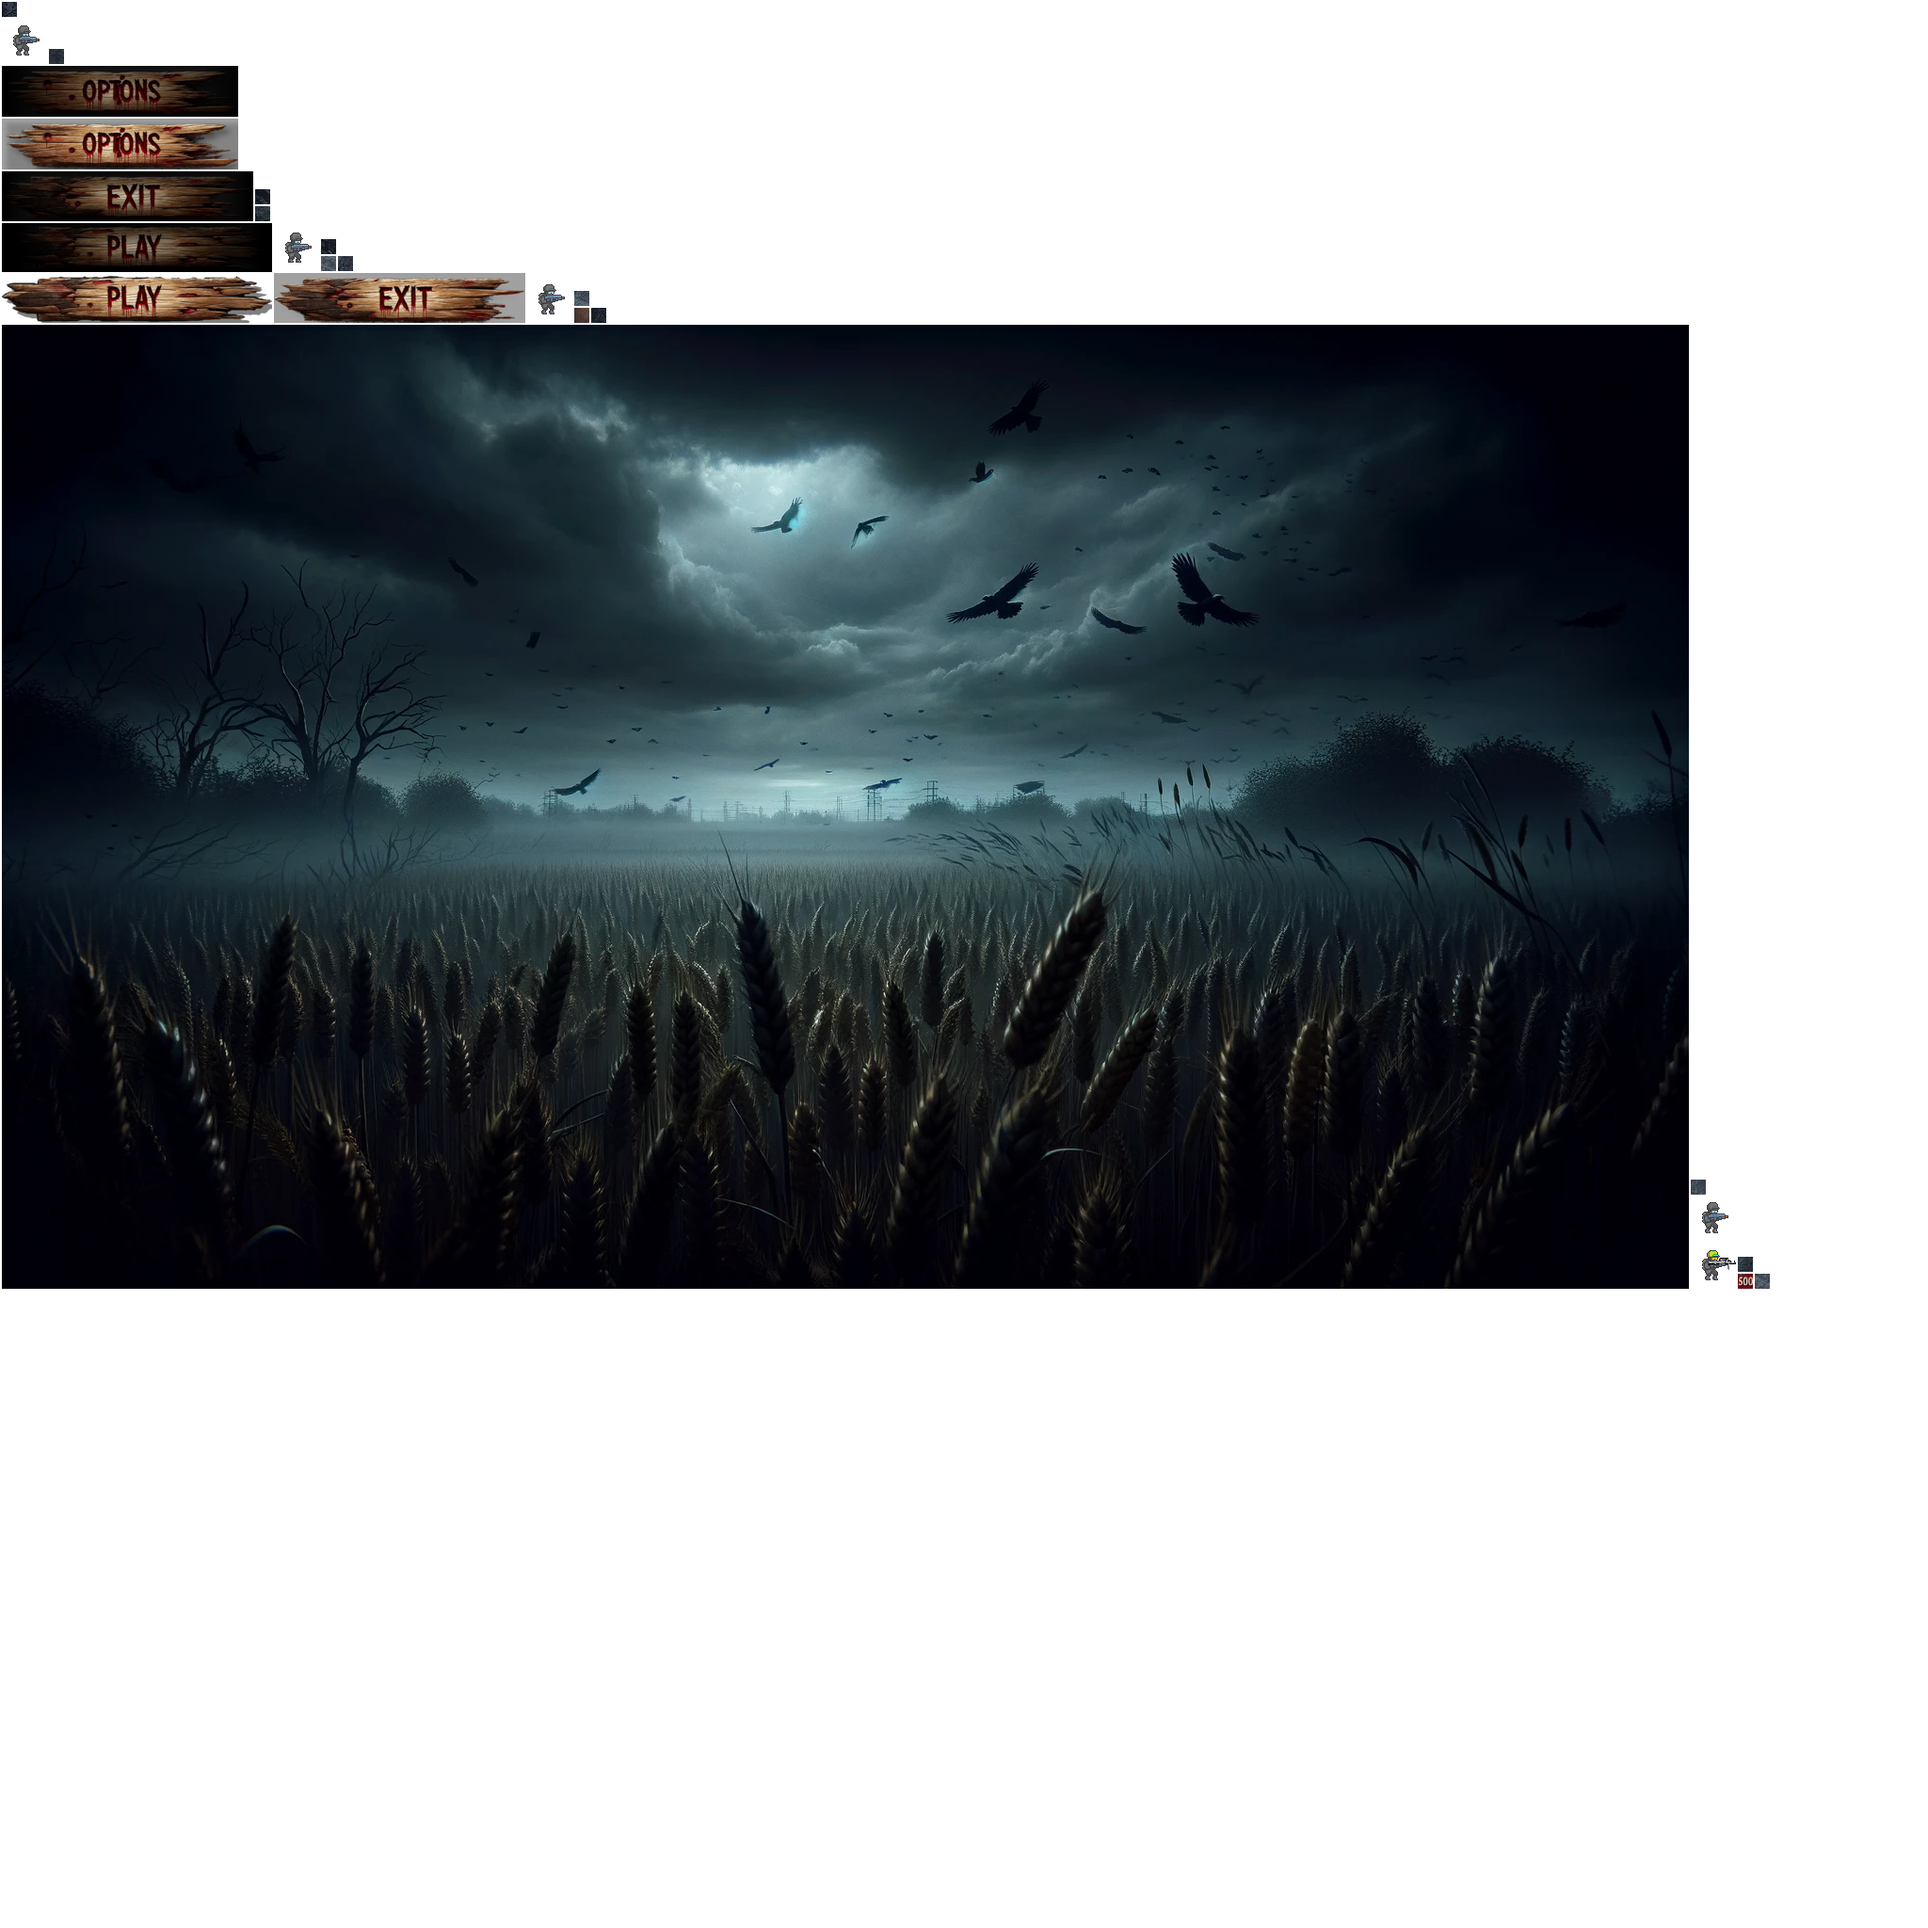
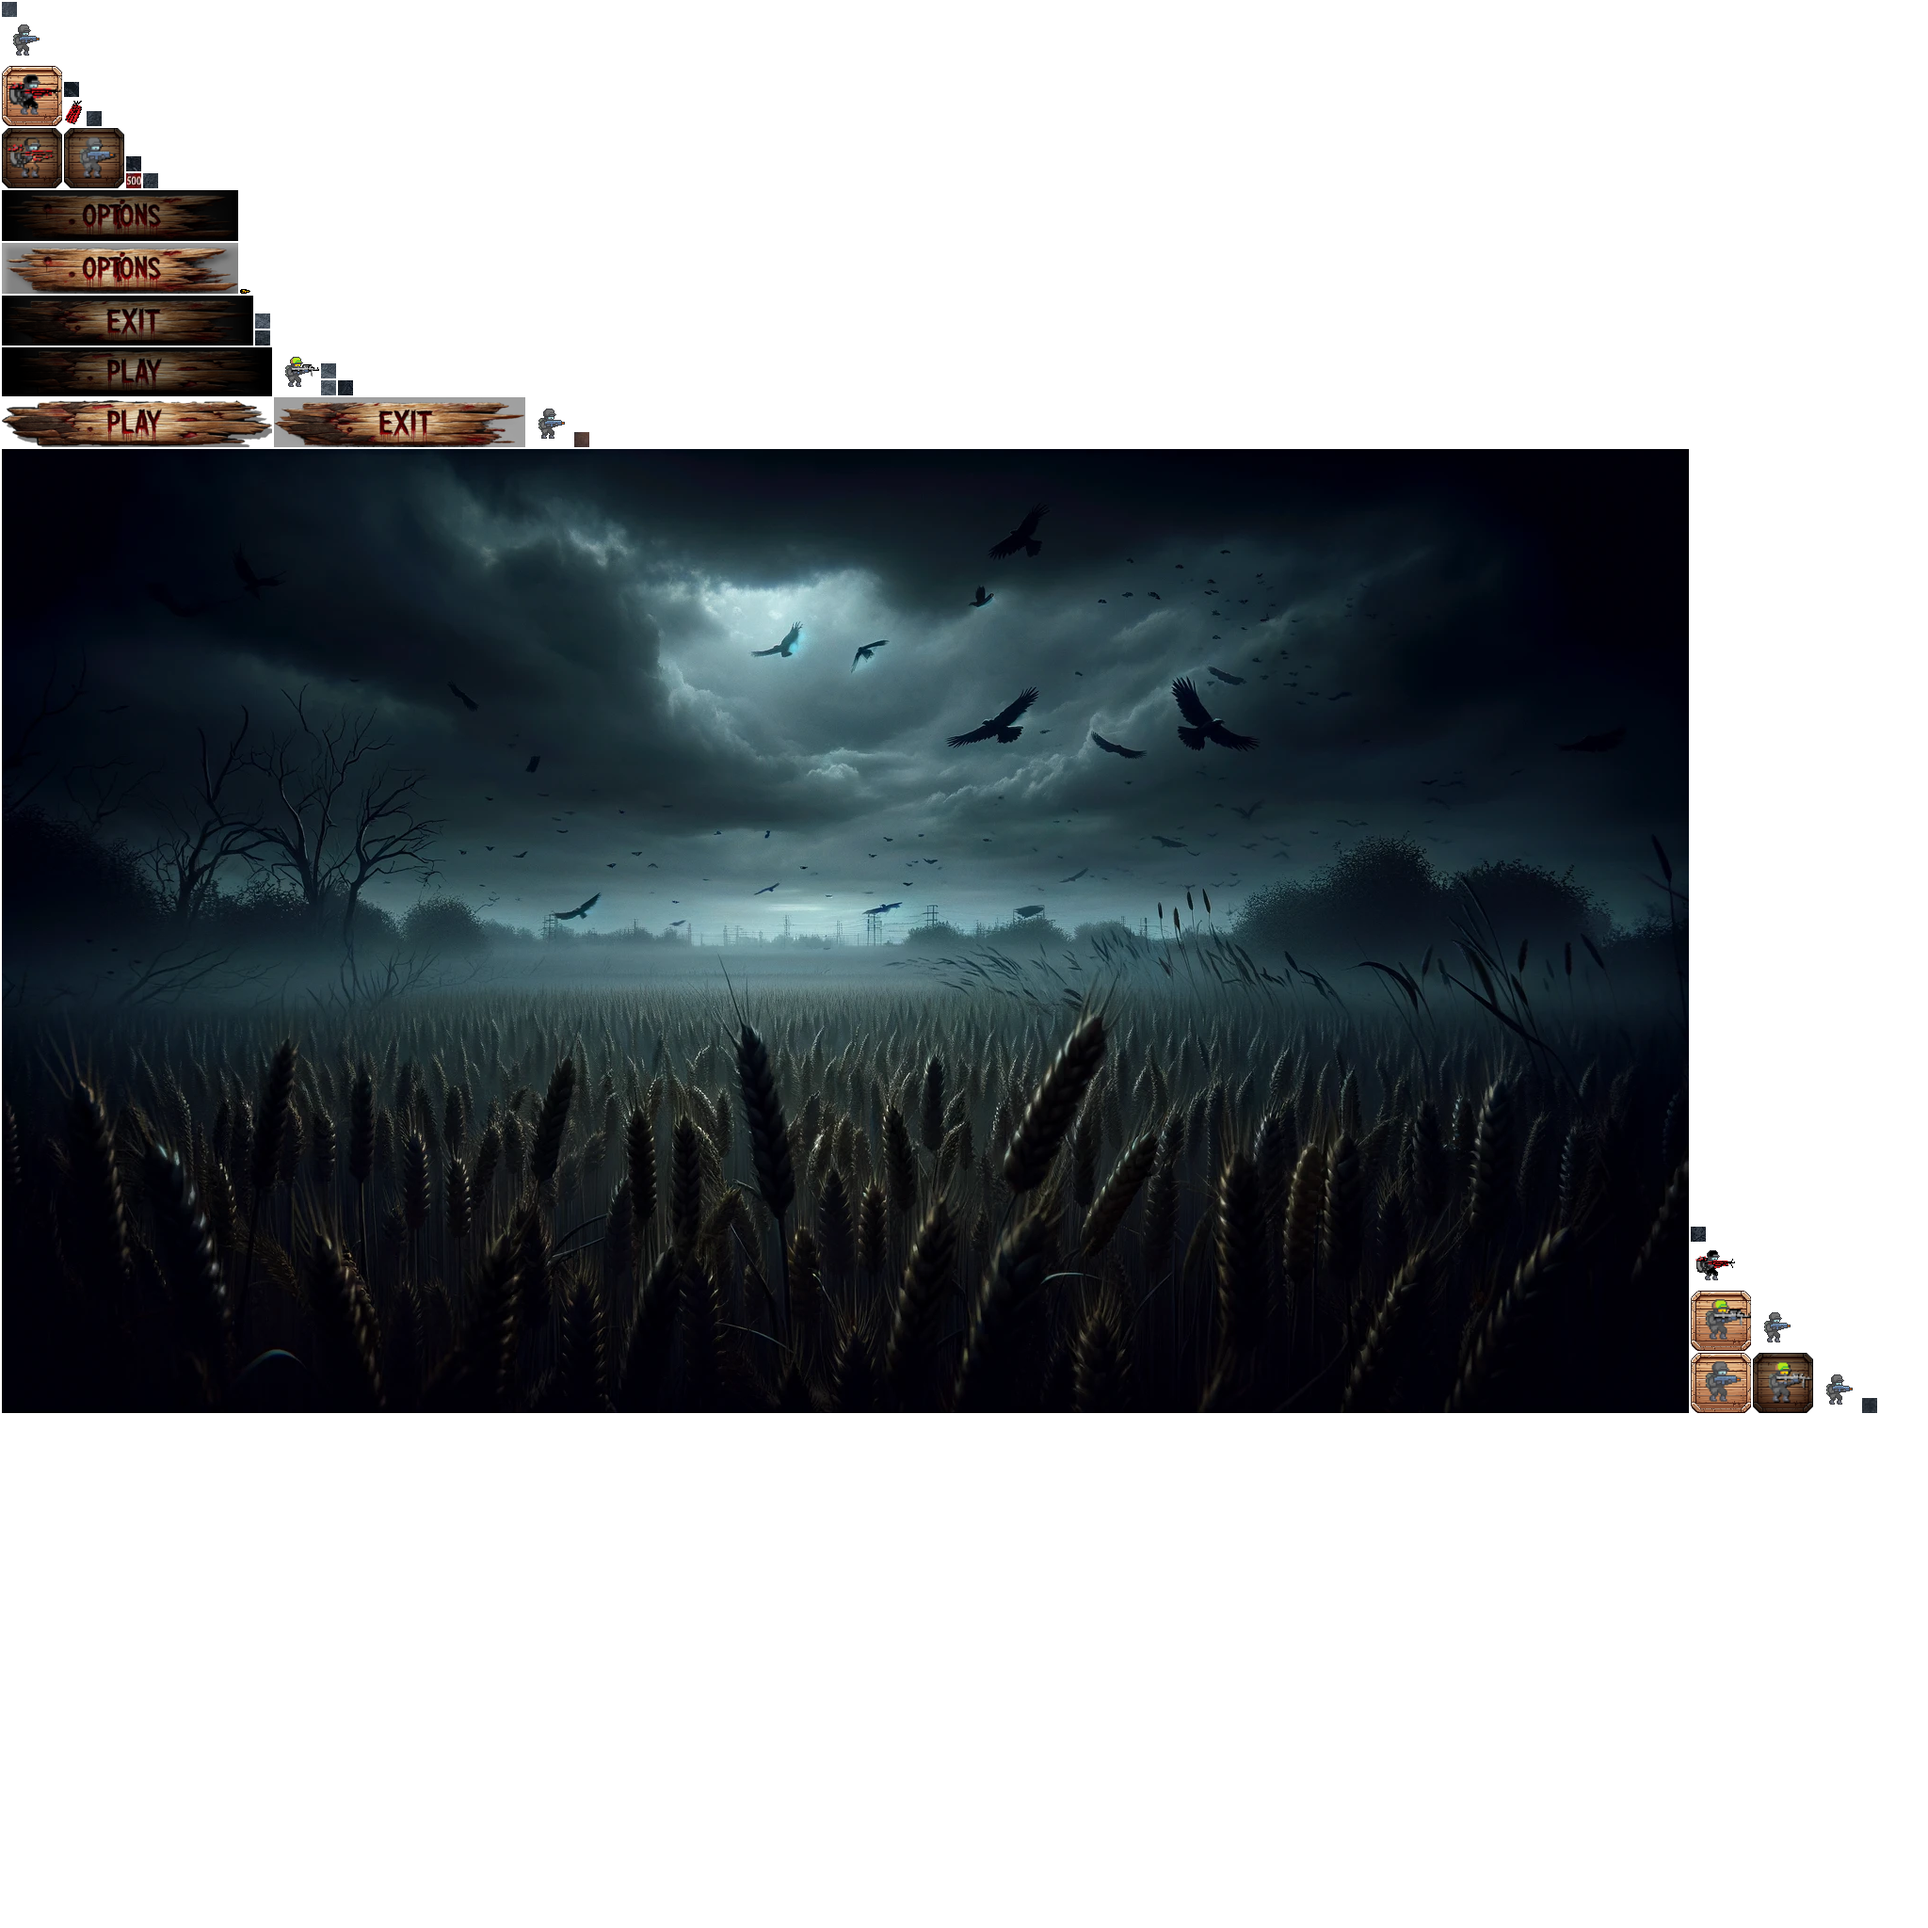
new textures, fully implemented tower building UI, more sfx, fixed fullscreen bug where UI buttons wouldnt register according to screen position.

Changed region(s): [[0.0, 0.0, 0.9688, 0.75], [0.0312, 0.4375, 0.0625, 0.4688]]

diff --git a/src/main/java/inf112/skeleton/app/scene/PlayScene.java b/src/main/java/inf112/skeleton/app/scene/PlayScene.java
@@ -19,6 +19,7 @@ import com.badlogic.gdx.scenes.scene2d.actions.SequenceAction;
 import com.badlogic.gdx.scenes.scene2d.ui.*;
 import com.badlogic.gdx.scenes.scene2d.utils.ChangeListener;
 import com.badlogic.gdx.utils.Align;
+import com.badlogic.gdx.utils.viewport.FitViewport;
 import com.badlogic.gdx.utils.viewport.ScreenViewport;
 import com.badlogic.gdx.utils.viewport.StretchViewport;
 import inf112.skeleton.app.controller.EnemyController;
@@ -41,8 +42,9 @@ public class PlayScene extends AbstractGameScene {
     private Stage stage;
     private Skin uimenuskin;
     private Button gunnerButton;
-    private SpriteBatch spriteBatch;
     private Button sniperButton;
+    private Button bomberButton;
+    private SpriteBatch spriteBatch;
     private Level level;
     private EnemyController enemyController;
     private TowerController towerController;
@@ -70,6 +72,8 @@ public class PlayScene extends AbstractGameScene {
         camera.setToOrtho(false, Gdx.graphics.getWidth(), Gdx.graphics.getHeight());
         camera.update();
         stage = new Stage(new ScreenViewport(camera), spriteBatch);
+
+
     }
 
     private void setupInput() {
@@ -116,10 +120,8 @@ public class PlayScene extends AbstractGameScene {
     }
 
     private void initializeGameControllers() {
-        //level = new Level(game);
         this.enemyController = EnemyController.getInstance(this.level);
         this.towerController = TowerController.getInstance(this.level);
-       // worldController = new WorldController(game, level, enemyController, towerController);
 
         InputMultiplexer inputMultiplexer = new InputMultiplexer(stage, new MouseController(towerController, enemyController, level));
         Gdx.input.setInputProcessor(inputMultiplexer);
@@ -130,7 +132,7 @@ public class PlayScene extends AbstractGameScene {
         layer.setFillParent(true);
         layer.bottom();
 
-        gunnerButton = new Button(uimenuskin, "tower");
+        gunnerButton = new Button(uimenuskin, "gunnertower");
         layer.add(gunnerButton).padBottom(10);  // Add padding at the bottom if needed
         gunnerButton.addListener(new ChangeListener() {
             @Override
@@ -140,13 +142,23 @@ public class PlayScene extends AbstractGameScene {
             }
         });
 
-        sniperButton = new Button(uimenuskin, "tower");
+        sniperButton = new Button(uimenuskin, "snipertower");
         layer.add(sniperButton).padBottom(10);  // Add padding at the bottom if needed
         sniperButton.addListener(new ChangeListener() {
             @Override
             public void changed(ChangeEvent event, Actor actor) {
                 System.out.println("sniper selected");
                 onTowerClicked(DefenderType.SNIPER);
+            }
+        });
+
+        bomberButton = new Button(uimenuskin, "bombertower");
+        layer.add(bomberButton).padBottom(10);  // Add padding at the bottom if needed
+        bomberButton.addListener(new ChangeListener() {
+            @Override
+            public void changed(ChangeEvent event, Actor actor) {
+                System.out.println("bomber selected");
+                onTowerClicked(DefenderType.BOMBER);
             }
         });
         layer.row();
@@ -225,6 +237,11 @@ public class PlayScene extends AbstractGameScene {
 
     @Override
     public void resize (int width, int height) {
+        if (stage != null) {
+            stage.getViewport().update(width, height, true);
+            camera.setToOrtho(false, SCREEN_WIDTH, SCREEN_HEIGHT);
+            camera.update();
+        }
     }
 
     @Override
@@ -237,11 +254,7 @@ public class PlayScene extends AbstractGameScene {
         }
 
         // temporary multiplexer to use both stage ui buttons and configurer mousecontroller bs so that i can place the towers. (temp temp temp!!!)
-
-
     }
-
-
     @Override
     public void hide () {
         MusicManager.stopCurrentMusic();

diff --git a/src/main/java/inf112/skeleton/app/util/GameAssets.java b/src/main/java/inf112/skeleton/app/util/GameAssets.java
@@ -15,6 +15,8 @@ public class GameAssets implements Disposable {
     public static TextureAtlas.AtlasRegion playButtonDown;
     public static TextureAtlas.AtlasRegion gunnerTexture;
     public static TextureAtlas.AtlasRegion sniperTexture;
+    public static TextureAtlas.AtlasRegion bomberTexture;
+    public static TextureAtlas.AtlasRegion bombTexture;
     public static TextureAtlas.AtlasRegion zombieTexture;
     public static TextureAtlas.AtlasRegion pathTexture;
     public static TextureAtlas.AtlasRegion groundTexture;
@@ -47,18 +49,20 @@ public class GameAssets implements Disposable {
         }
 
         // Load individual textures
-        playButtonUp = atlas.findRegion("play-up");
-        playButtonDown = atlas.findRegion("play-dn");
+        playButtonUp = atlas.findRegion("play_up");
+        playButtonDown = atlas.findRegion("play_dn");
         gunnerTexture = atlas.findRegion("gunna0");
         sniperTexture = atlas.findRegion("snipa0");
+        bomberTexture = atlas.findRegion("bomba0");
         zombieTexture = atlas.findRegion("gunna0");
         pathTexture = atlas.findRegion("path");
+        bombTexture = atlas.findRegion("bomb");
         groundTexture = atlas.findRegion("gritty2");
 
         // sprite form
         gunnerSprite = createSprite(gunnerTexture);
-        sniperSprite = createSprite(gunnerTexture);
-        bomberSprite = createSprite(gunnerTexture);
+        sniperSprite = createSprite(sniperTexture);
+        bomberSprite = createSprite(bomberTexture);
 
         zombieSprite = createSprite(zombieTexture);//FIX Change atlas to zombie texture, when available :)
         zombieslowedSprite = createSprite(zombieTexture);//FIX Change to frozen zombie when available
@@ -66,9 +70,9 @@ public class GameAssets implements Disposable {
         tankSprite = createSprite(zombieTexture);
         tankslowedSprite = createSprite(zombieTexture);
 
-        gunnerBulletSprite = createSprite(atlas.findRegion("path"));
-        sniperBulletSprite = createSprite(atlas.findRegion("path"));
-        bomberBulletSprite = createSprite(atlas.findRegion("path"));
+        gunnerBulletSprite = createSprite(atlas.findRegion("bullet"));
+        sniperBulletSprite = createSprite(atlas.findRegion("bullet"));
+        bomberBulletSprite = createSprite(atlas.findRegion("bomb"));
 
         if (playButtonUp == null || playButtonDown == null || gunnerTexture == null || zombieTexture == null || pathTexture == null) {
             Gdx.app.error("GameAssets", "One or more texture regions not found!");

diff --git a/src/main/java/inf112/skeleton/app/util/MusicManager.java b/src/main/java/inf112/skeleton/app/util/MusicManager.java
@@ -5,15 +5,18 @@ import com.badlogic.gdx.audio.Music;
 import com.badlogic.gdx.audio.Sound;
 
 public class MusicManager {
+
     private static Music currentMusic;
     private static String currentTrack = "";
 
     // SFX
     // Shooting sfx
-    private static Sound sniperShotSound = Gdx.audio.newSound(Gdx.files.internal("sniper_shot.ogg"));
-    private static Sound gunnerShotSound = Gdx.audio.newSound(Gdx.files.internal("gunner_shot.ogg"));
+    private static final Sound sniperShotSound = Gdx.audio.newSound(Gdx.files.internal("sniper_shot.ogg"));
+    private static final Sound gunnerShotSound = Gdx.audio.newSound(Gdx.files.internal("gunner_shot.ogg"));
+    private static final Sound bomberShotSound = Gdx.audio.newSound(Gdx.files.internal("bombashoot.ogg"));
+    private static final Sound bombExplodeSound = Gdx.audio.newSound(Gdx.files.internal("bombexplode.ogg"));
     // Enemy sfx
-    private static Sound zombieDeathScream = Gdx.audio.newSound(Gdx.files.internal("zombie_death.ogg"));
+    private static final Sound zombieDeathScream = Gdx.audio.newSound(Gdx.files.internal("zombie_death.ogg"));
 
 
     public static void play(String filename, boolean loop) {
@@ -39,7 +42,7 @@ public class MusicManager {
 
     }
 
-    public static void changeVolume(){
+    public static void changeMusicVolume(){
         if(currentMusic!=null) {
             currentMusic.setVolume(GameSettings.getVolMusic());
         }
@@ -57,11 +60,16 @@ public class MusicManager {
     public static void playGunnerShot() {
         gunnerShotSound.play();
     }
+    public static void playBomberShot() { bomberShotSound.play();
+    }
+    public static void playBombExplode() { bombExplodeSound.play();
+    }
 
     // Enemies
     public static void playZombieDeathScream() {
         zombieDeathScream.play();
     }
+
 
 
 }

diff --git a/src/main/java/inf112/skeleton/app/tower/BomberDefender.java b/src/main/java/inf112/skeleton/app/tower/BomberDefender.java
@@ -5,8 +5,10 @@ import inf112.skeleton.app.entity.Bullet;
 import inf112.skeleton.app.entity.Enemy;
 import inf112.skeleton.app.enums.BulletType;
 import inf112.skeleton.app.enums.DefenderType;
+import inf112.skeleton.app.util.GameAssets;
 import inf112.skeleton.app.util.GameConstants;
 import inf112.skeleton.app.resourceHandler.MyAtlas;
+import inf112.skeleton.app.util.MusicManager;
 
 import java.util.List;
 
@@ -18,8 +20,9 @@ public class BomberDefender extends BaseDefender{
         defenderType = DefenderType.BOMBER;
         damage = GameConstants.TOWER_DAMAGE_BOMBER;
         explosionRadius = GameConstants.BOMBER_EXPLOSION_RADIUS;
-        sprite = MyAtlas.BOMBER;
-        spriteSelected = MyAtlas.BOMBER;
+        initializeSprites(GameAssets.getInstance().getAtlas(), "bomba0", "bomba0");
+
+
     }
 
     public void applyAreaDamage(Vector2 impactPoint, float explosionRadius, float damage) {
@@ -33,6 +36,7 @@ public class BomberDefender extends BaseDefender{
     @Override
     public void projectileFire() {
         Bullet bullet = new Bullet(center.x, center.y, enemy, damage, BulletType.BOMBER_BULLET, GameConstants.BOMBER_EXPLOSION_RADIUS);
+        MusicManager.playBomberShot();
         bullet.setBomberDefender(this);
         bullets.add(bullet);
     }

diff --git a/src/main/java/inf112/skeleton/app/entity/Bullet.java b/src/main/java/inf112/skeleton/app/entity/Bullet.java
@@ -9,6 +9,7 @@ import inf112.skeleton.app.util.GameConstants;
 import inf112.skeleton.app.resourceHandler.MyAtlas;
 
 import inf112.skeleton.app.enums.BulletType;
+import inf112.skeleton.app.util.MusicManager;
 
 import static inf112.skeleton.app.util.GameConstants.*;
 
@@ -58,6 +59,7 @@ public class Bullet extends GameObject {
             isVisible = false;
             if (bulletType == BulletType.BOMBER_BULLET && bomberDefender != null) {
                 bomberDefender.applyAreaDamage(center, explosionRadius, damage);
+                MusicManager.playBombExplode();
             } else {
                 enemy.shot(damage);
             }

diff --git a/src/main/java/inf112/skeleton/app/scene/MenuScene.java b/src/main/java/inf112/skeleton/app/scene/MenuScene.java
@@ -144,7 +144,7 @@ public class MenuScene extends AbstractGameScene {
         Gdx.input.setInputProcessor(stage);
         build();
         prefs.load();   // load preferences.
-        MusicManager.changeVolume(); // change volume (placeholder for when i will complete musicmanager).
+        MusicManager.changeMusicVolume(); // change volume (placeholder for when i will complete musicmanager).
         if(!GameSettings.getMusic()) {  // if music gets disabled in settings...
             MusicManager.stopCurrentMusic(); // stop the music.
         } else {

diff --git a/src/main/java/inf112/skeleton/app/util/GameConstants.java b/src/main/java/inf112/skeleton/app/util/GameConstants.java
@@ -65,8 +65,8 @@ public class GameConstants {
 
 
 
-    public static float BULLET_WIDTH = TILE_WIDTH / 2;
-    public static float BULLET_HEIGHT = TILE_HEIGHT / 2;
+    public static float BULLET_WIDTH = TILE_WIDTH / 8;
+    public static float BULLET_HEIGHT = TILE_HEIGHT / 8;
 
     public static Vector2 START_POS = new Vector2(0, TILE_HEIGHT * (UI_ROWS_BOTTOM - 1));
 }
